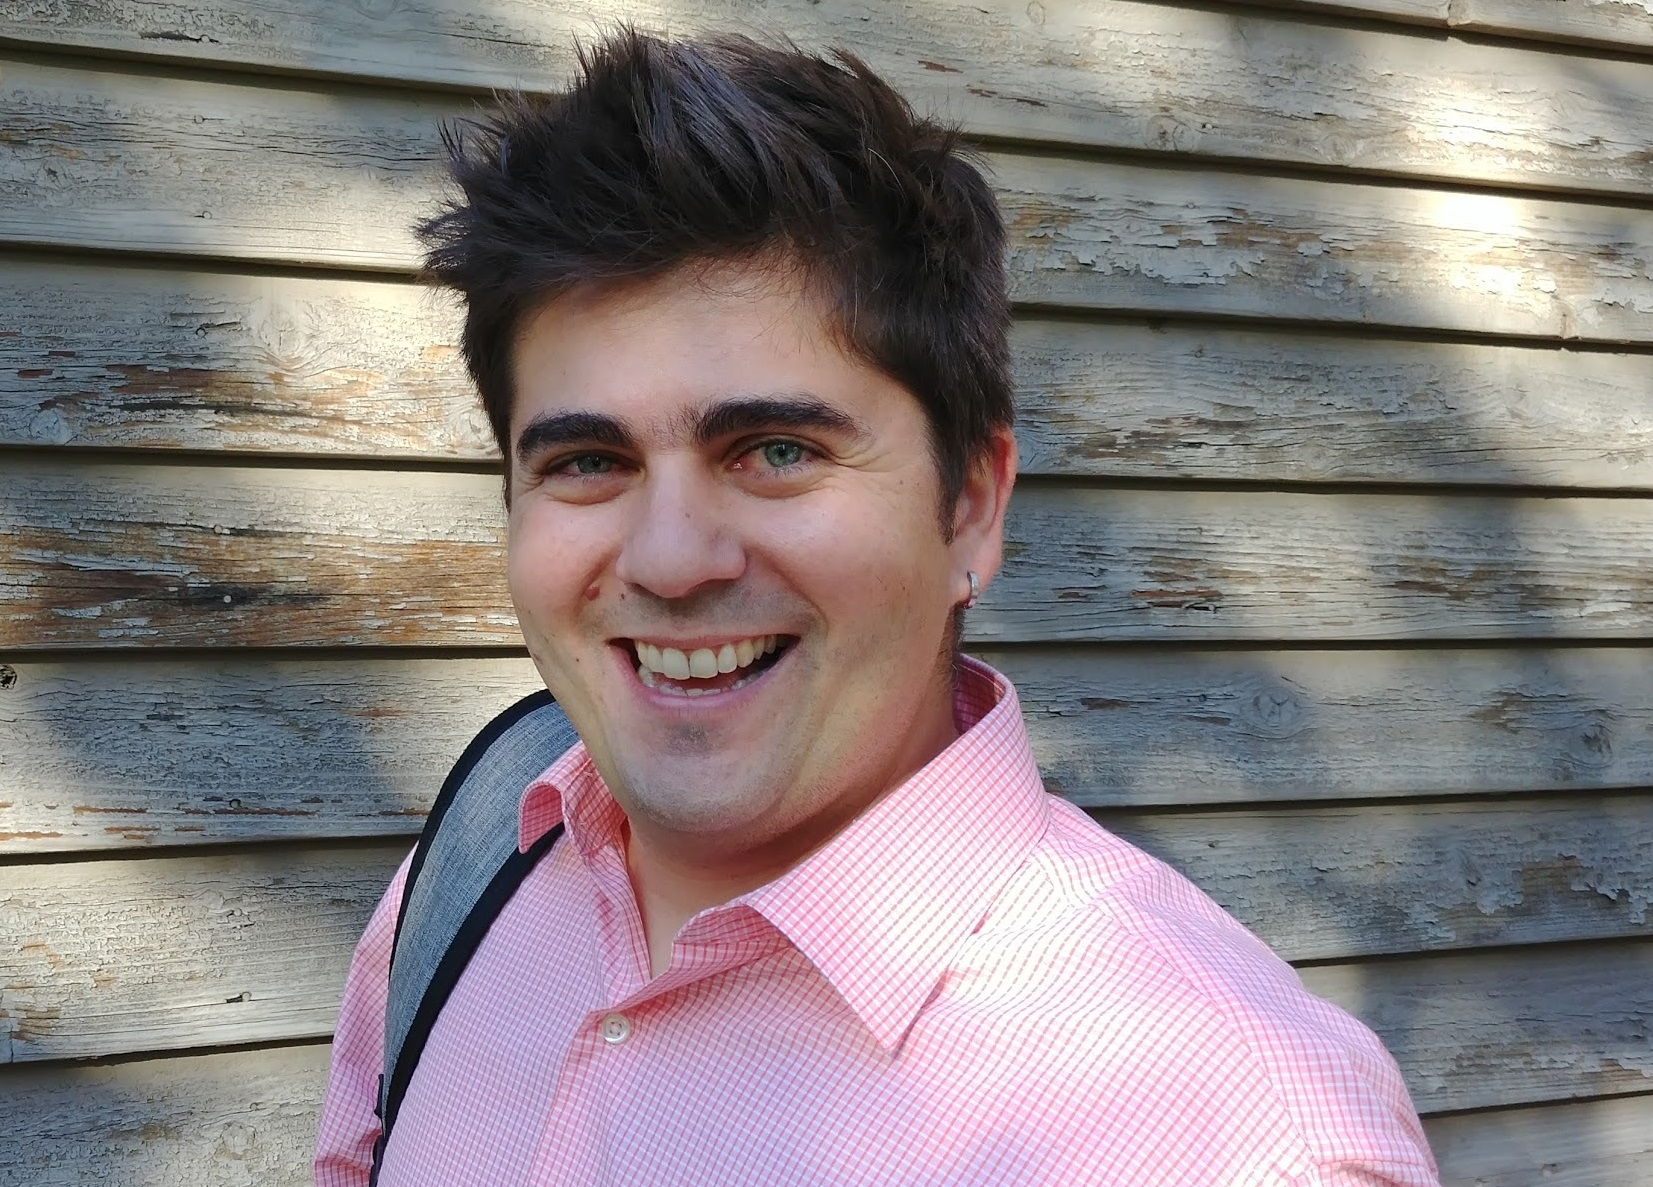
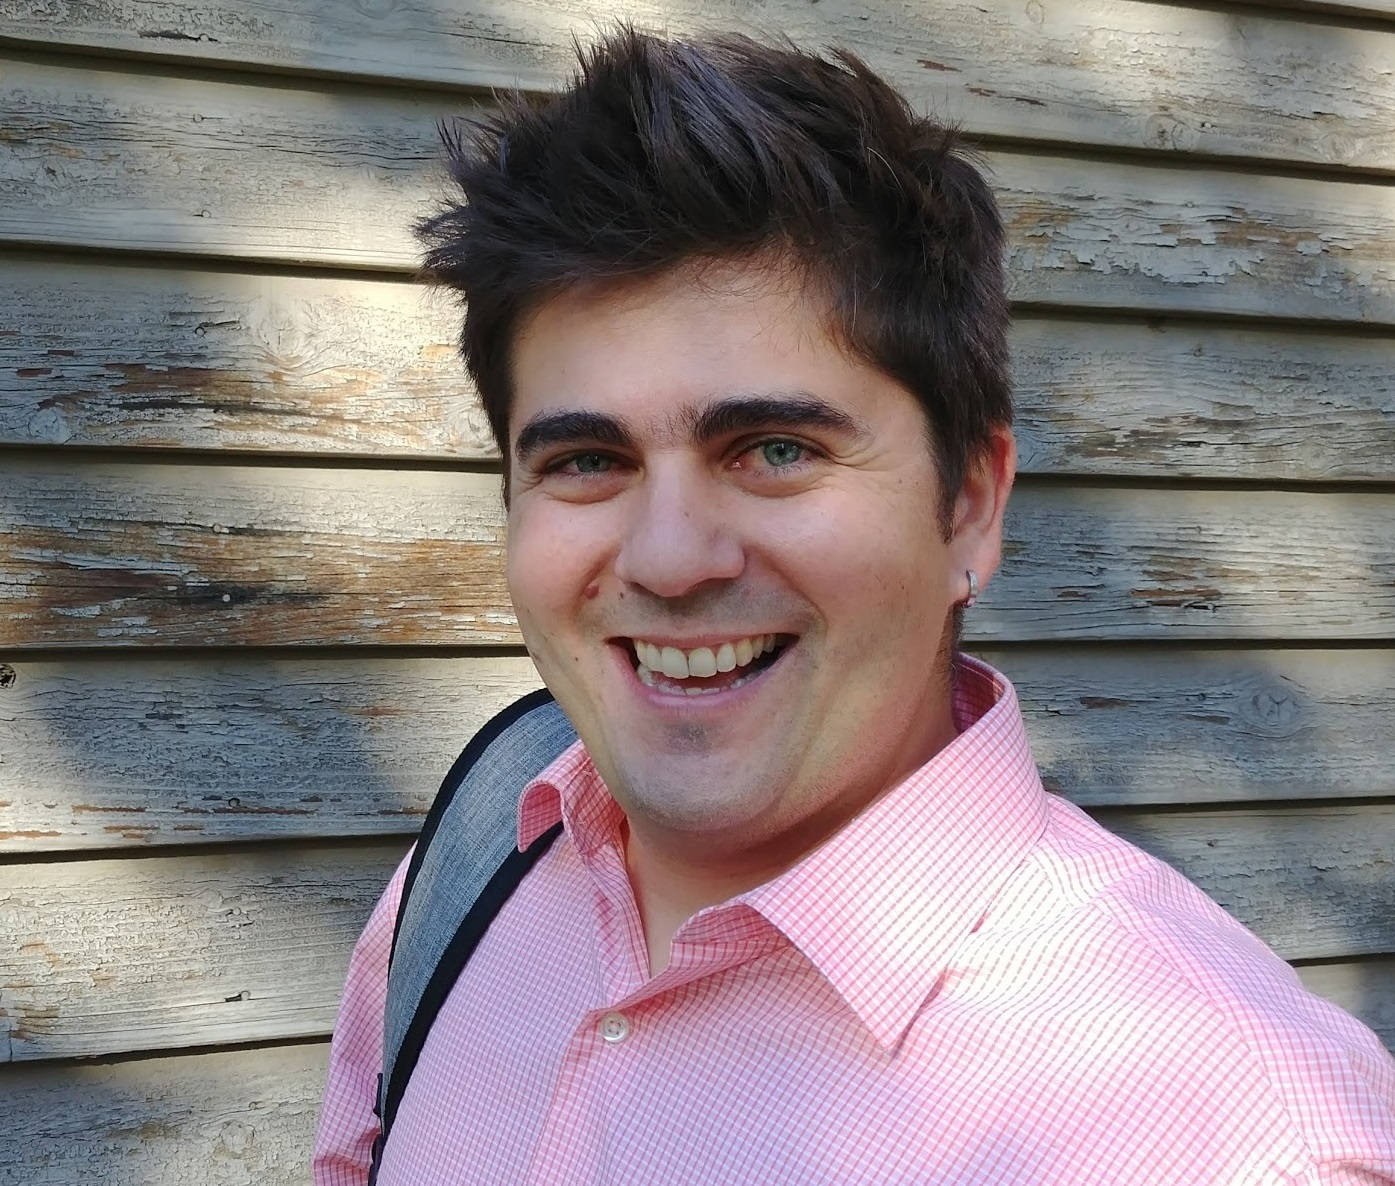
button section

diff --git a/index.html b/index.html
@@ -30,9 +30,17 @@
                     <div class="col-lg-12">
                         <a href="#"><img id="photo" src="rt_responsive.jpg"></a>
                         <h1>Raphael Tapioca</h1>
-                        <p>
-                            <a href="#section3" class="btn muted-dark-buton">Click</a>
-                        </p>
+                    </div>
+                </div>
+            </div>
+        </section>
+        <section id="link">
+            <div class="container">
+                <div class="row">
+                    <div class="col-lg-12">
+                        <div class="btnWrap">
+                            <a href="#section3" class="btn btn-info" role="button">Click</a>
+                        </div>
                     </div>
                 </div>
             </div>

diff --git a/assets/css/style.css b/assets/css/style.css
@@ -15,8 +15,15 @@
     height: 40px;
 }
 
-#photo, #tech {
+#tech {
     height: 200px;
+}
+
+#photo {
+    margin-top: 5%;
+    height: 300px;
+    width: 310px;
+    border-radius: 50%;
 }
 
 section {
@@ -24,7 +31,27 @@ section {
 	background-position: center center;
 	background-size: cover;
 	background-attachment: fixed;
-    height: 100vh;
+    height: 94vh;
+    width: 100%;
+    margin: 0;
+}
+
+.btnWrap {
+    display: flex;
+	flex-direction: row;
+	flex-wrap: nowrap;
+	justify-content: center;
+	align-items: flex-end;
+	align-content: center;
+}
+
+#link {
+    background-color: transparent;
+    background-repeat: no-repeat;
+	background-position: center center;
+	background-size: cover;
+	background-attachment: fixed;
+    height: 6vh;
     width: 100%;
     margin: 0;
 }

diff --git a/assets/js/script.js b/assets/js/script.js
@@ -22,7 +22,9 @@ $(document).ready(function(){
       } // End if
     });
 
+    //Add navbar on scroll
     $(document).on('scroll', function (e) {
         $('.navbar').css('opacity', ($(document).scrollTop() / 500));
     });
+
   });
